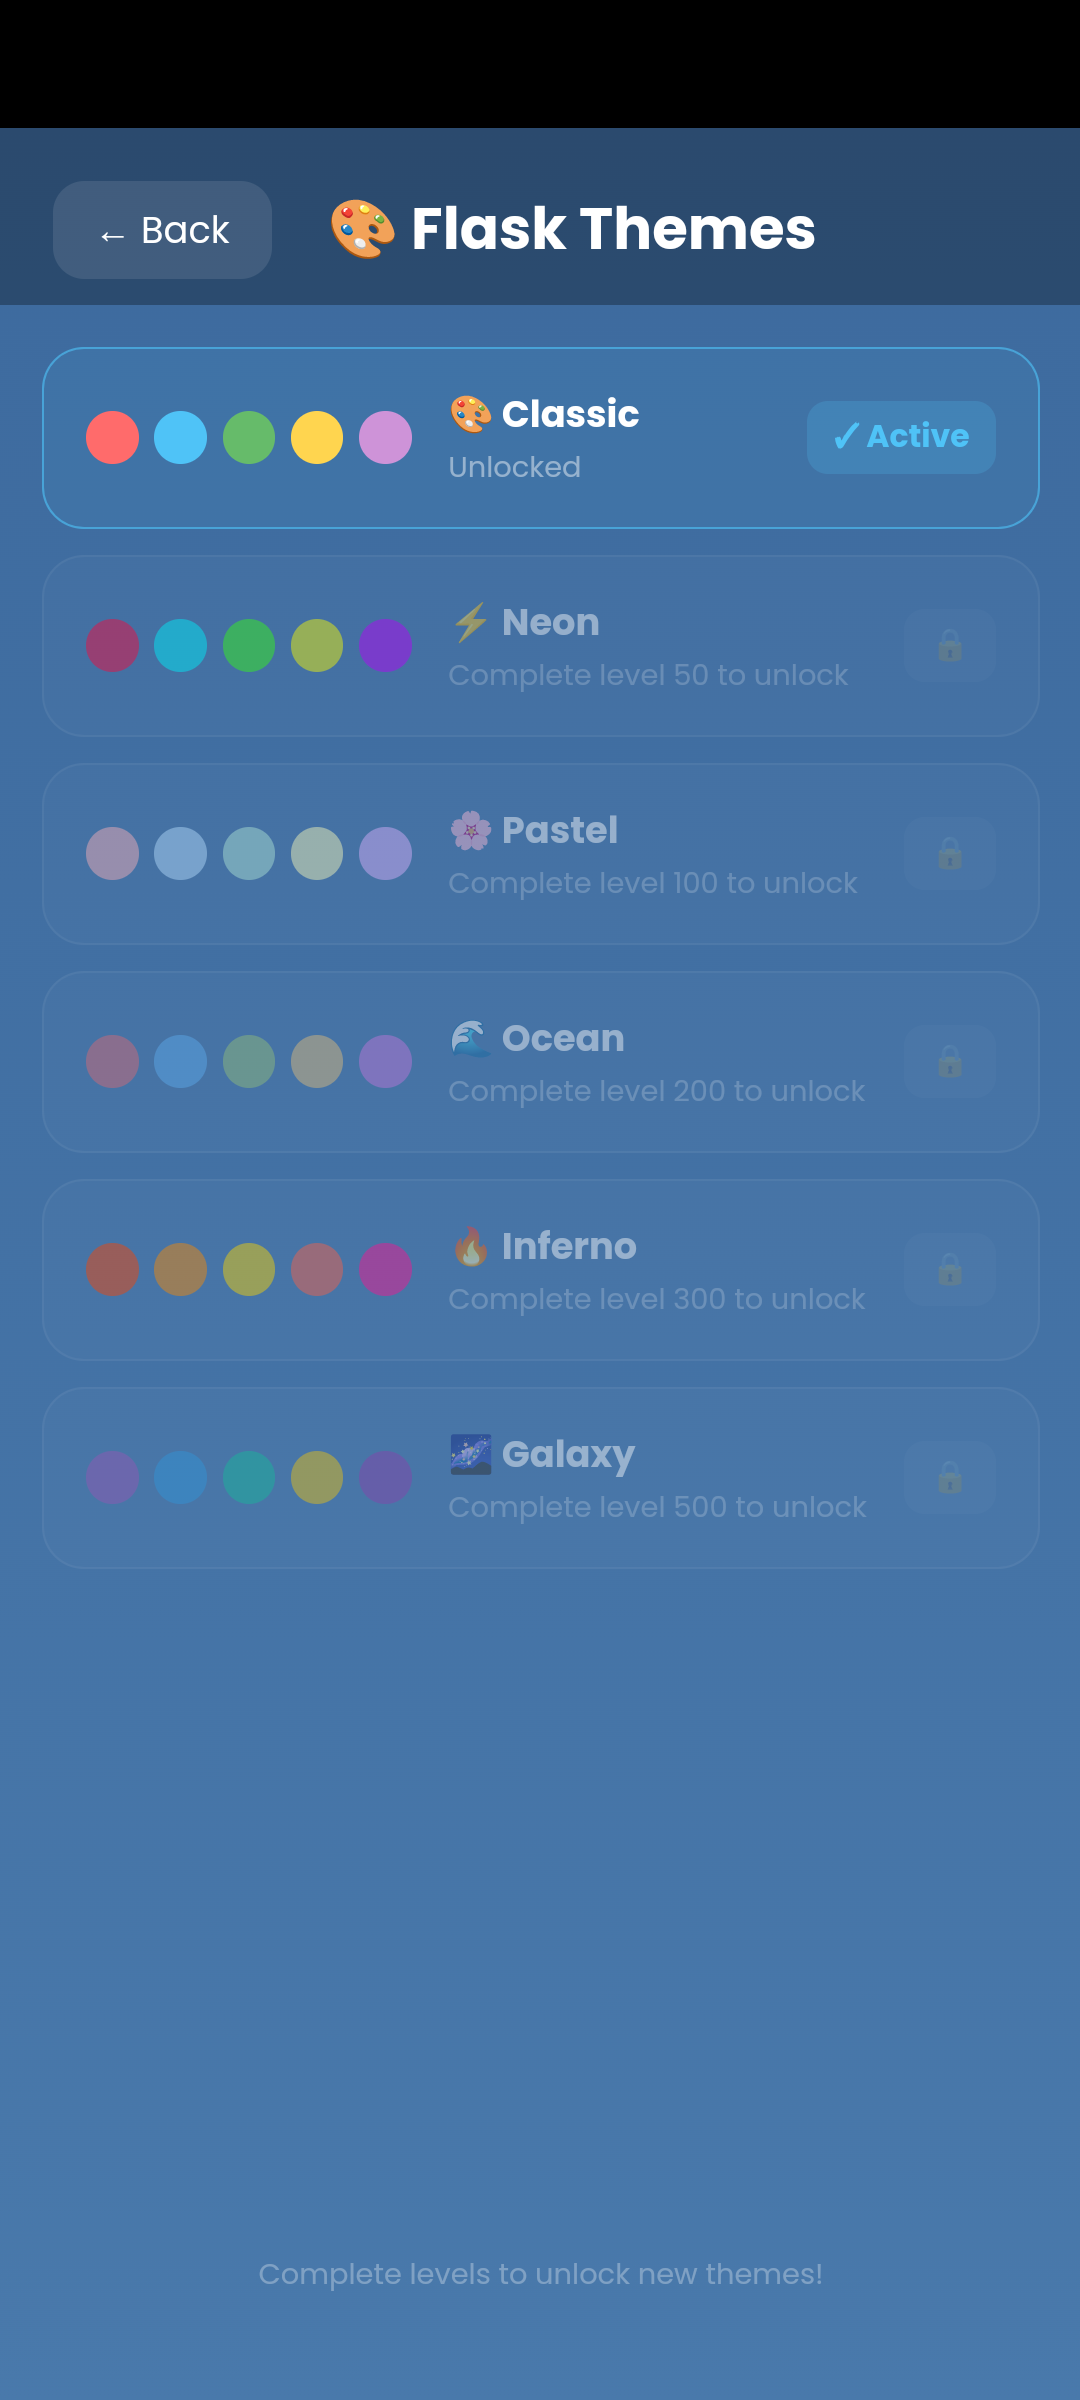
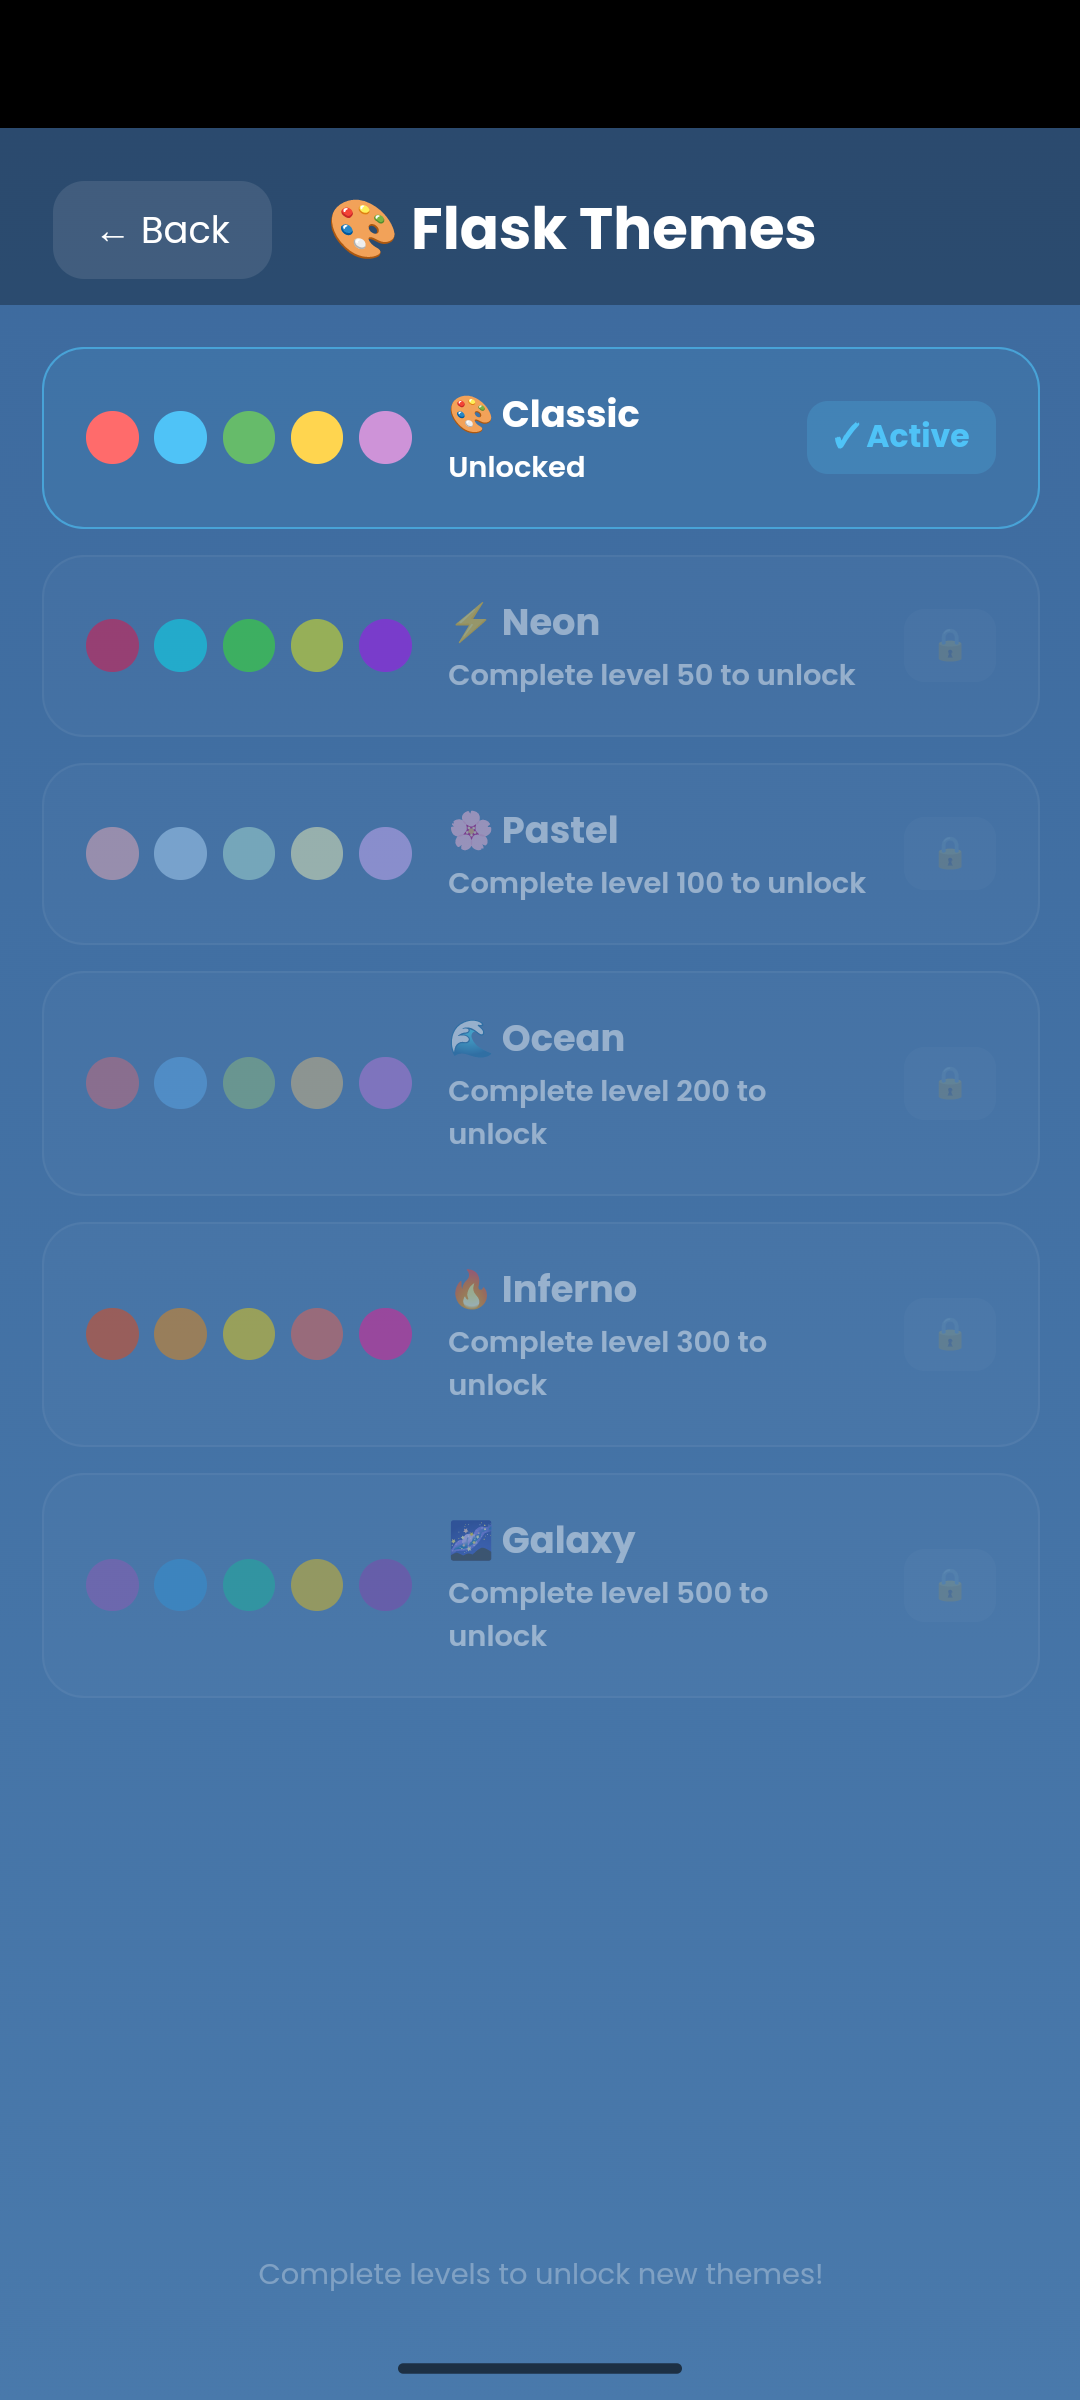
WS white text on dark-blue bg + Nono clue size scales with cell
WaterSortPuzzle:
- Daylight :root tokens were configured for a "light bg" but WS's
  Daylight default is a MEDIUM ocean blue (#3d6a9e) — labels that
  used var(--text) rendered dark navy on dark blue, unreadable.
  Flipped --text #0d1f33 -> #ffffff and --text-mute / --surface /
  --border / --btn-neutral-bg to white-on-blue equivalents so every
  label, header, settings row, shop description, theme name, theme
  unlock subtitle renders white.
- Theme card title (.theme-info h3) and subtitle (.theme-info p) now
  use the same --text token at slight weight differentiation so all
  text within a theme card is the same color. Same alignment for
  .shop-info p and .promo-info p. Daily Reminder inline subtitle
  ("Streak alerts & daily challenge") swapped from hardcoded
  rgba(255,255,255,0.55) to var(--text).

Nonogram:
- Clue font cap raised from 14px -> 28px and floor from 8 -> 11; the
  font now scales cellSize*0.65 so 20×20 boards (Level 350+) get
  readable numbers instead of the cramped 14px ceiling. Font weight
  bumped 600 -> 700 for legibility.
- clueRatio tightened: 5×5 0.25->0.22, 10×10 0.30->0.26, 15×15
  0.35->0.30, 20×20 0.38->0.30. Same change shrinks the clue strip
  and grows the playable grid cells across every level size; combined
  with the bigger font, 20×20 boards no longer have a half-empty
  clue strip.

diff --git a/WaterSortPuzzle/android/app/src/main/assets/game.html b/WaterSortPuzzle/android/app/src/main/assets/game.html
@@ -19,14 +19,19 @@
   --z-critical-error: 800;
   /* Shim/overlay theme tokens (2026-05-28 Part A; round-13 made
      --surface SOLID so overlays read as bright panels, not transparent
-     wash). Daylight = medium ocean. Midnight reassigns these below. */
-  --text: #0d1f33;
-  --text-mute: rgba(13,31,51,0.72);
-  --surface: #eaf3fb;
-  --border: rgba(13,31,51,0.16);
+     wash). Daylight = medium ocean. Round-16 (2026-06-08): --text
+     flipped from dark-navy to white because WS's medium-blue bg is
+     too dark for dark text — every label that read var(--text) was
+     rendering navy-on-navy unreadable. Surfaces that need a dark-on-
+     light pairing (none currently exist in WS — there are no
+     background:var(--surface) rules) would need to override locally. */
+  --text: #ffffff;
+  --text-mute: rgba(255,255,255,0.72);
+  --surface: #15294a;
+  --border: rgba(255,255,255,0.15);
   --g-play: linear-gradient(135deg,#4fc3f7,#0288d1);
   --on-accent: #ffffff;
-  --btn-neutral-bg: rgba(13,31,51,0.10);
+  --btn-neutral-bg: rgba(255,255,255,0.10);
   --bg: #3d6a9e;
   /* Round-14: menu-tile tokens map to the same look as .icon-btn so
      Missions/Stats + Tier-3 + chips share one visual treatment. */
@@ -233,7 +238,7 @@ canvas { display: block; }
 .shop-icon { font-size: 36px; width: 56px; height: 56px; display: flex; align-items: center; justify-content: center; background: rgba(79,195,247,0.08); border-radius: 14px; }
 .shop-info { flex: 1; }
 .shop-info h3 { color: var(--text); font-size: 15px; font-weight: 700; }
-.shop-info p { color: rgba(255,255,255,0.5); font-size: 12px; margin-top: 2px; }
+.shop-info p { color: var(--text); font-size: 12px; font-weight: 500; margin-top: 2px; }
 .shop-price-btn { background: linear-gradient(135deg, #4fc3f7, #0288d1); border: none; border-radius: 10px; padding: 8px 14px; color: white; font-family: 'Poppins', sans-serif; font-size: 13px; font-weight: 700; cursor: pointer; white-space: nowrap; }
 .shop-price-btn.owned { background: rgba(255,255,255,0.1); color: rgba(255,255,255,0.5); }
 .shop-price-btn.coin-price { background: linear-gradient(135deg, #ffd700, #f39c12); color: #0a1628; }
@@ -278,7 +283,7 @@ body.has-html-ad .screen { height: calc(100% - 60px) !important; }
 .promo-icon { font-size: 36px; width: 56px; height: 56px; display: flex; align-items: center; justify-content: center; background: rgba(79,195,247,0.08); border-radius: 14px; flex-shrink: 0; }
 .promo-info { flex: 1; }
 .promo-info h3 { color: var(--text); font-size: 15px; font-weight: 700; }
-.promo-info p { color: rgba(255,255,255,0.5); font-size: 12px; margin-top: 2px; }
+.promo-info p { color: var(--text); font-size: 12px; font-weight: 500; margin-top: 2px; }
 .promo-btn { background: linear-gradient(135deg, #ffd700, #f39c12); border: none; border-radius: 10px; padding: 8px 12px; color: #0a1628; font-family: 'Poppins', sans-serif; font-size: 12px; font-weight: 700; cursor: pointer; white-space: nowrap; flex-shrink: 0; }
 .promo-btn.claimed { background: #2ea043; color: #ffffff; cursor: default; }
 
@@ -496,7 +501,7 @@ html[data-theme="midnight"] #levelScreen { background:linear-gradient(160deg,#05
       <div class="setting-row">
         <span class="setting-label" style="display:flex;flex-direction:column;gap:2px">
           <span>🔔 Daily Reminders</span>
-          <span style="font-size:12px;color:rgba(255,255,255,0.55);font-weight:400">Streak alerts &amp; daily challenge</span>
+          <span style="font-size:12px;color:var(--text);font-weight:500">Streak alerts &amp; daily challenge</span>
         </span>
         <label class="toggle">
           <input type="checkbox" id="notifToggle" onchange="Notifications.setEnabled(this.checked)">
@@ -4764,7 +4769,7 @@ setTimeout(function() { wsUpdateMissionsBadge(); }, 1500);
 .theme-ball { width:20px; height:20px; border-radius:50%; }
 .theme-info { flex:1; }
 .theme-info h3 { color:var(--text); font-size:14px; font-weight:700; }
-.theme-info p { color:rgba(255,255,255,0.45); font-size:11px; margin-top:2px; }
+.theme-info p { color:var(--text); font-size:11px; font-weight:600; margin-top:2px; }
 .theme-badge { font-size:12px; font-weight:700; padding:5px 10px; border-radius:8px; white-space:nowrap; }
 .active-badge { background:rgba(79,195,247,0.2); color:#4fc3f7; }
 .locked-badge { background:rgba(255,255,255,0.05); color:rgba(255,255,255,0.3); }

diff --git a/Nonogram/android/app/src/main/assets/game.html b/Nonogram/android/app/src/main/assets/game.html
@@ -3149,12 +3149,15 @@ function resizeCanvas() {
   const W = wrap.clientWidth || window.innerWidth;
   const H = wrap.clientHeight || (window.innerHeight - 100);
 
-  // Clue area ratio
+  // Clue area ratio — Round-16: tightened for 20×20 boards so the
+  // playable grid cells get bigger (was 0.38, leaving cells at ~32px
+  // on a 1080-wide phone). At 0.30 the same board gets ~38px cells
+  // and the clue strip is still wide enough for max-5-number rows.
   let clueRatio;
-  if (size <= 5) clueRatio = 0.25;
-  else if (size <= 10) clueRatio = 0.30;
-  else if (size <= 15) clueRatio = 0.35;
-  else clueRatio = 0.38;
+  if (size <= 5) clueRatio = 0.22;
+  else if (size <= 10) clueRatio = 0.26;
+  else if (size <= 15) clueRatio = 0.30;
+  else clueRatio = 0.30;
 
   const availW = W * 0.98;
   const availH = H * 0.98;
@@ -3290,9 +3293,12 @@ function drawCanvas(flashError) {
   ctx2d.moveTo(0, clueH); ctx2d.lineTo(W, clueH);
   ctx2d.stroke();
 
-  // Draw clues
-  const fontSize = Math.max(8, Math.min(cellSize * 0.55, 14));
-  ctx2d.font = `600 ${fontSize}px system-ui, -apple-system, sans-serif`;
+  // Draw clues — Round-16 (2026-06-08): font scales with cellSize so
+  // 20×20 boards (Level 350+) get readable clue numbers. Previous 14px
+  // cap made the numbers tiny when cellSize was ~32-40px; the new floor
+  // of cellSize*0.65 reads clearly while still fitting the clue strip.
+  const fontSize = Math.max(11, Math.min(cellSize * 0.65, 28));
+  ctx2d.font = `700 ${fontSize}px system-ui, -apple-system, sans-serif`;
   ctx2d.textAlign = 'center';
   ctx2d.textBaseline = 'middle';
 
